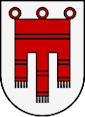
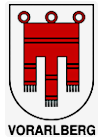
Austrian coats of arms: keep the state name and panel as supplied

diff --git a/app/lib/plateLayout.ts b/app/lib/plateLayout.ts
@@ -161,17 +161,17 @@ export const PLATE_ART: Record<string, PlateArt> = {
     split: "whole",
   },
   // ── Austria: backgrounds in public/plates/austria; one row per line of lettering ──
-  "austria:regular-single": { src: "/plates/austria/regular-single.png", w: 1040, h: 220, rows: [{ y0: 26, y1: 194, x0: 128, x1: 1015, slots: 2, seal: true, gap: 0.22 }], split: "at-seal", stateSeals: true, sealH: 0.7 },
-  "austria:regular-single-noeuro": { src: "/plates/austria/regular-single-noeuro.png", w: 1040, h: 220, rows: [{ y0: 26, y1: 194, x0: 40, x1: 1000, slots: 2, seal: true, gap: 0.22 }], split: "at-seal", stateSeals: true, sealH: 0.7 },
-  "austria:repeater-single": { src: "/plates/austria/repeater-single.png", w: 1040, h: 220, rows: [{ y0: 26, y1: 194, x0: 128, x1: 1005, slots: 2, seal: true, gap: 0.22 }], split: "at-seal", stateSeals: true, sealH: 0.7, textColor: "#fff" },
+  "austria:regular-single": { src: "/plates/austria/regular-single.png", w: 1040, h: 220, rows: [{ y0: 26, y1: 194, x0: 128, x1: 1015, slots: 2, seal: true, gap: 0.22 }], split: "at-seal", stateSeals: true, sealH: 0.78 },
+  "austria:regular-single-noeuro": { src: "/plates/austria/regular-single-noeuro.png", w: 1040, h: 220, rows: [{ y0: 26, y1: 194, x0: 40, x1: 1000, slots: 2, seal: true, gap: 0.22 }], split: "at-seal", stateSeals: true, sealH: 0.78 },
+  "austria:repeater-single": { src: "/plates/austria/repeater-single.png", w: 1040, h: 220, rows: [{ y0: 26, y1: 194, x0: 128, x1: 1005, slots: 2, seal: true, gap: 0.22 }], split: "at-seal", stateSeals: true, sealH: 0.78, textColor: "#fff" },
   "austria:provisional-single": { src: "/plates/austria/provisional-single.png", w: 1040, h: 220, rows: [{ y0: 26, y1: 194, x0: 60, x1: 880, slots: 1 }], split: "whole", textColor: "#fff" },
   "austria:provisional-single-small": { src: "/plates/austria/provisional-single-small.png", w: 1040, h: 220, rows: [{ y0: 26, y1: 194, x0: 60, x1: 880, slots: 1 }], split: "whole", textColor: "#fff" },
-  "austria:dealer-single": { src: "/plates/austria/dealer-single.png", w: 1040, h: 240, rows: [{ y0: 30, y1: 208, x0: 60, x1: 985, slots: 2, seal: true, gap: 0.22 }], split: "at-seal", stateSeals: true, sealH: 0.7, textColor: "#fff" },
+  "austria:dealer-single": { src: "/plates/austria/dealer-single.png", w: 1040, h: 240, rows: [{ y0: 30, y1: 208, x0: 60, x1: 985, slots: 2, seal: true, gap: 0.22 }], split: "at-seal", stateSeals: true, sealH: 0.78, textColor: "#fff" },
   "austria:export-single": { src: "/plates/austria/export-single.png", w: 1040, h: 240, rows: [{ y0: 30, y1: 208, x0: 50, x1: 880, slots: 1 }], split: "whole", textColor: "#fff" },
-  "austria:regular-two": { src: "/plates/austria/regular-two.png", w: 500, h: 400, rows: [{ y0: 24, y1: 195, x0: 120, x1: 480, slots: 1, seal: "right", gap: 0.2 }, { y0: 200, y1: 376, x0: 30, x1: 470, slots: 1 }], split: "at-two", stateSeals: true, sealH: 0.7 },
-  "austria:regular-two-noeuro": { src: "/plates/austria/regular-two-noeuro.png", w: 540, h: 400, rows: [{ y0: 24, y1: 195, x0: 30, x1: 510, slots: 1, seal: "right", gap: 0.2 }, { y0: 200, y1: 376, x0: 30, x1: 510, slots: 1 }], split: "at-two", stateSeals: true, sealH: 0.7 },
+  "austria:regular-two": { src: "/plates/austria/regular-two.png", w: 500, h: 400, rows: [{ y0: 24, y1: 195, x0: 120, x1: 480, slots: 1, seal: "right", gap: 0.2 }, { y0: 200, y1: 376, x0: 30, x1: 470, slots: 1 }], split: "at-two", stateSeals: true, sealH: 0.78 },
+  "austria:regular-two-noeuro": { src: "/plates/austria/regular-two-noeuro.png", w: 540, h: 400, rows: [{ y0: 24, y1: 195, x0: 30, x1: 510, slots: 1, seal: "right", gap: 0.2 }, { y0: 200, y1: 376, x0: 30, x1: 510, slots: 1 }], split: "at-two", stateSeals: true, sealH: 0.78 },
   "austria:provisional-two": { src: "/plates/austria/provisional-two.png", w: 540, h: 400, rows: [{ y0: 28, y1: 195, x0: 40, x1: 500, slots: 1 }, { y0: 202, y1: 376, x0: 40, x1: 395, slots: 1 }], split: "at-two", textColor: "#fff" },
-  "austria:dealer-two": { src: "/plates/austria/dealer-two.png", w: 540, h: 400, rows: [{ y0: 28, y1: 195, x0: 40, x1: 500, slots: 1, seal: "right", gap: 0.2 }, { y0: 202, y1: 376, x0: 40, x1: 500, slots: 1 }], split: "at-two", stateSeals: true, sealH: 0.7, textColor: "#fff" },
+  "austria:dealer-two": { src: "/plates/austria/dealer-two.png", w: 540, h: 400, rows: [{ y0: 28, y1: 195, x0: 40, x1: 500, slots: 1, seal: "right", gap: 0.2 }, { y0: 202, y1: 376, x0: 40, x1: 500, slots: 1 }], split: "at-two", stateSeals: true, sealH: 0.78, textColor: "#fff" },
   "austria:export-two": { src: "/plates/austria/export-two.png", w: 540, h: 400, rows: [{ y0: 22, y1: 195, x0: 40, x1: 500, slots: 1 }, { y0: 200, y1: 376, x0: 40, x1: 365, slots: 1 }], split: "at-two", textColor: "#fff" },
 };
 
@@ -194,11 +194,8 @@ function austriaArtKey(plateType?: string | null): string | null {
   return euro ? "austria:regular-single" : "austria:regular-single-noeuro";
 }
 
-/** Austrian coats of arms (public/plates/austria/seals), width ÷ height. */
-const SEAL_ASPECT: Record<string, number> = {
-  bund: 97 / 103, burgenland: 95 / 116, feuerwehr: 95 / 118, kaernten: 93 / 118, niederoesterreich: 71 / 119,
-  oberoesterreich: 65 / 118, salzburg: 65 / 118, steiermark: 73 / 118, tirol: 95 / 98, vorarlberg: 85 / 117, wien: 87 / 118,
-};
+/** Austrian coats of arms (public/plates/austria/seals): the full panel with the state name, as on the plate. */
+const AT_SEAL_ASPECT = 103 / 138;
 const DISTRICT_STATE: Record<string, string[]> = {
   vorarlberg: ["B", "BZ", "DO", "FK"],
   wien: ["W"],
@@ -223,7 +220,7 @@ function austriaSealFor(district: string, plateType?: string | null): string | n
   const state = /^at-(1947|dealer-1947)-/.test(plateType ?? "") ? STATE_1947[code] : SEAL_OF_DISTRICT.get(code);
   return state ? `/plates/austria/seals/${state}.png` : null;
 }
-const sealAspect = (src: string) => SEAL_ASPECT[src.replace(/^.*\/|\.png$/g, "")] ?? 0.8;
+const sealAspect = (_src: string) => AT_SEAL_ASPECT;
 
 /** Artwork for a plate: its exact type first, then the country default. */
 export function plateArtFor(country: string, plateType?: string | null): PlateArt | null {

diff --git a/app/components/PlateBadge.tsx b/app/components/PlateBadge.tsx
@@ -12,7 +12,7 @@ export { formatPlateText } from "@/app/lib/plateLayout";
 export type { PlateSize };
 
 /** Bump when the plate rendering changes, so CDN-cached images refresh. */
-const PLATE_IMAGE_VERSION = 13;
+const PLATE_IMAGE_VERSION = 14;
 /** Render at 3× for crisp output on high-density screens. */
 const DENSITY = 3;
 
